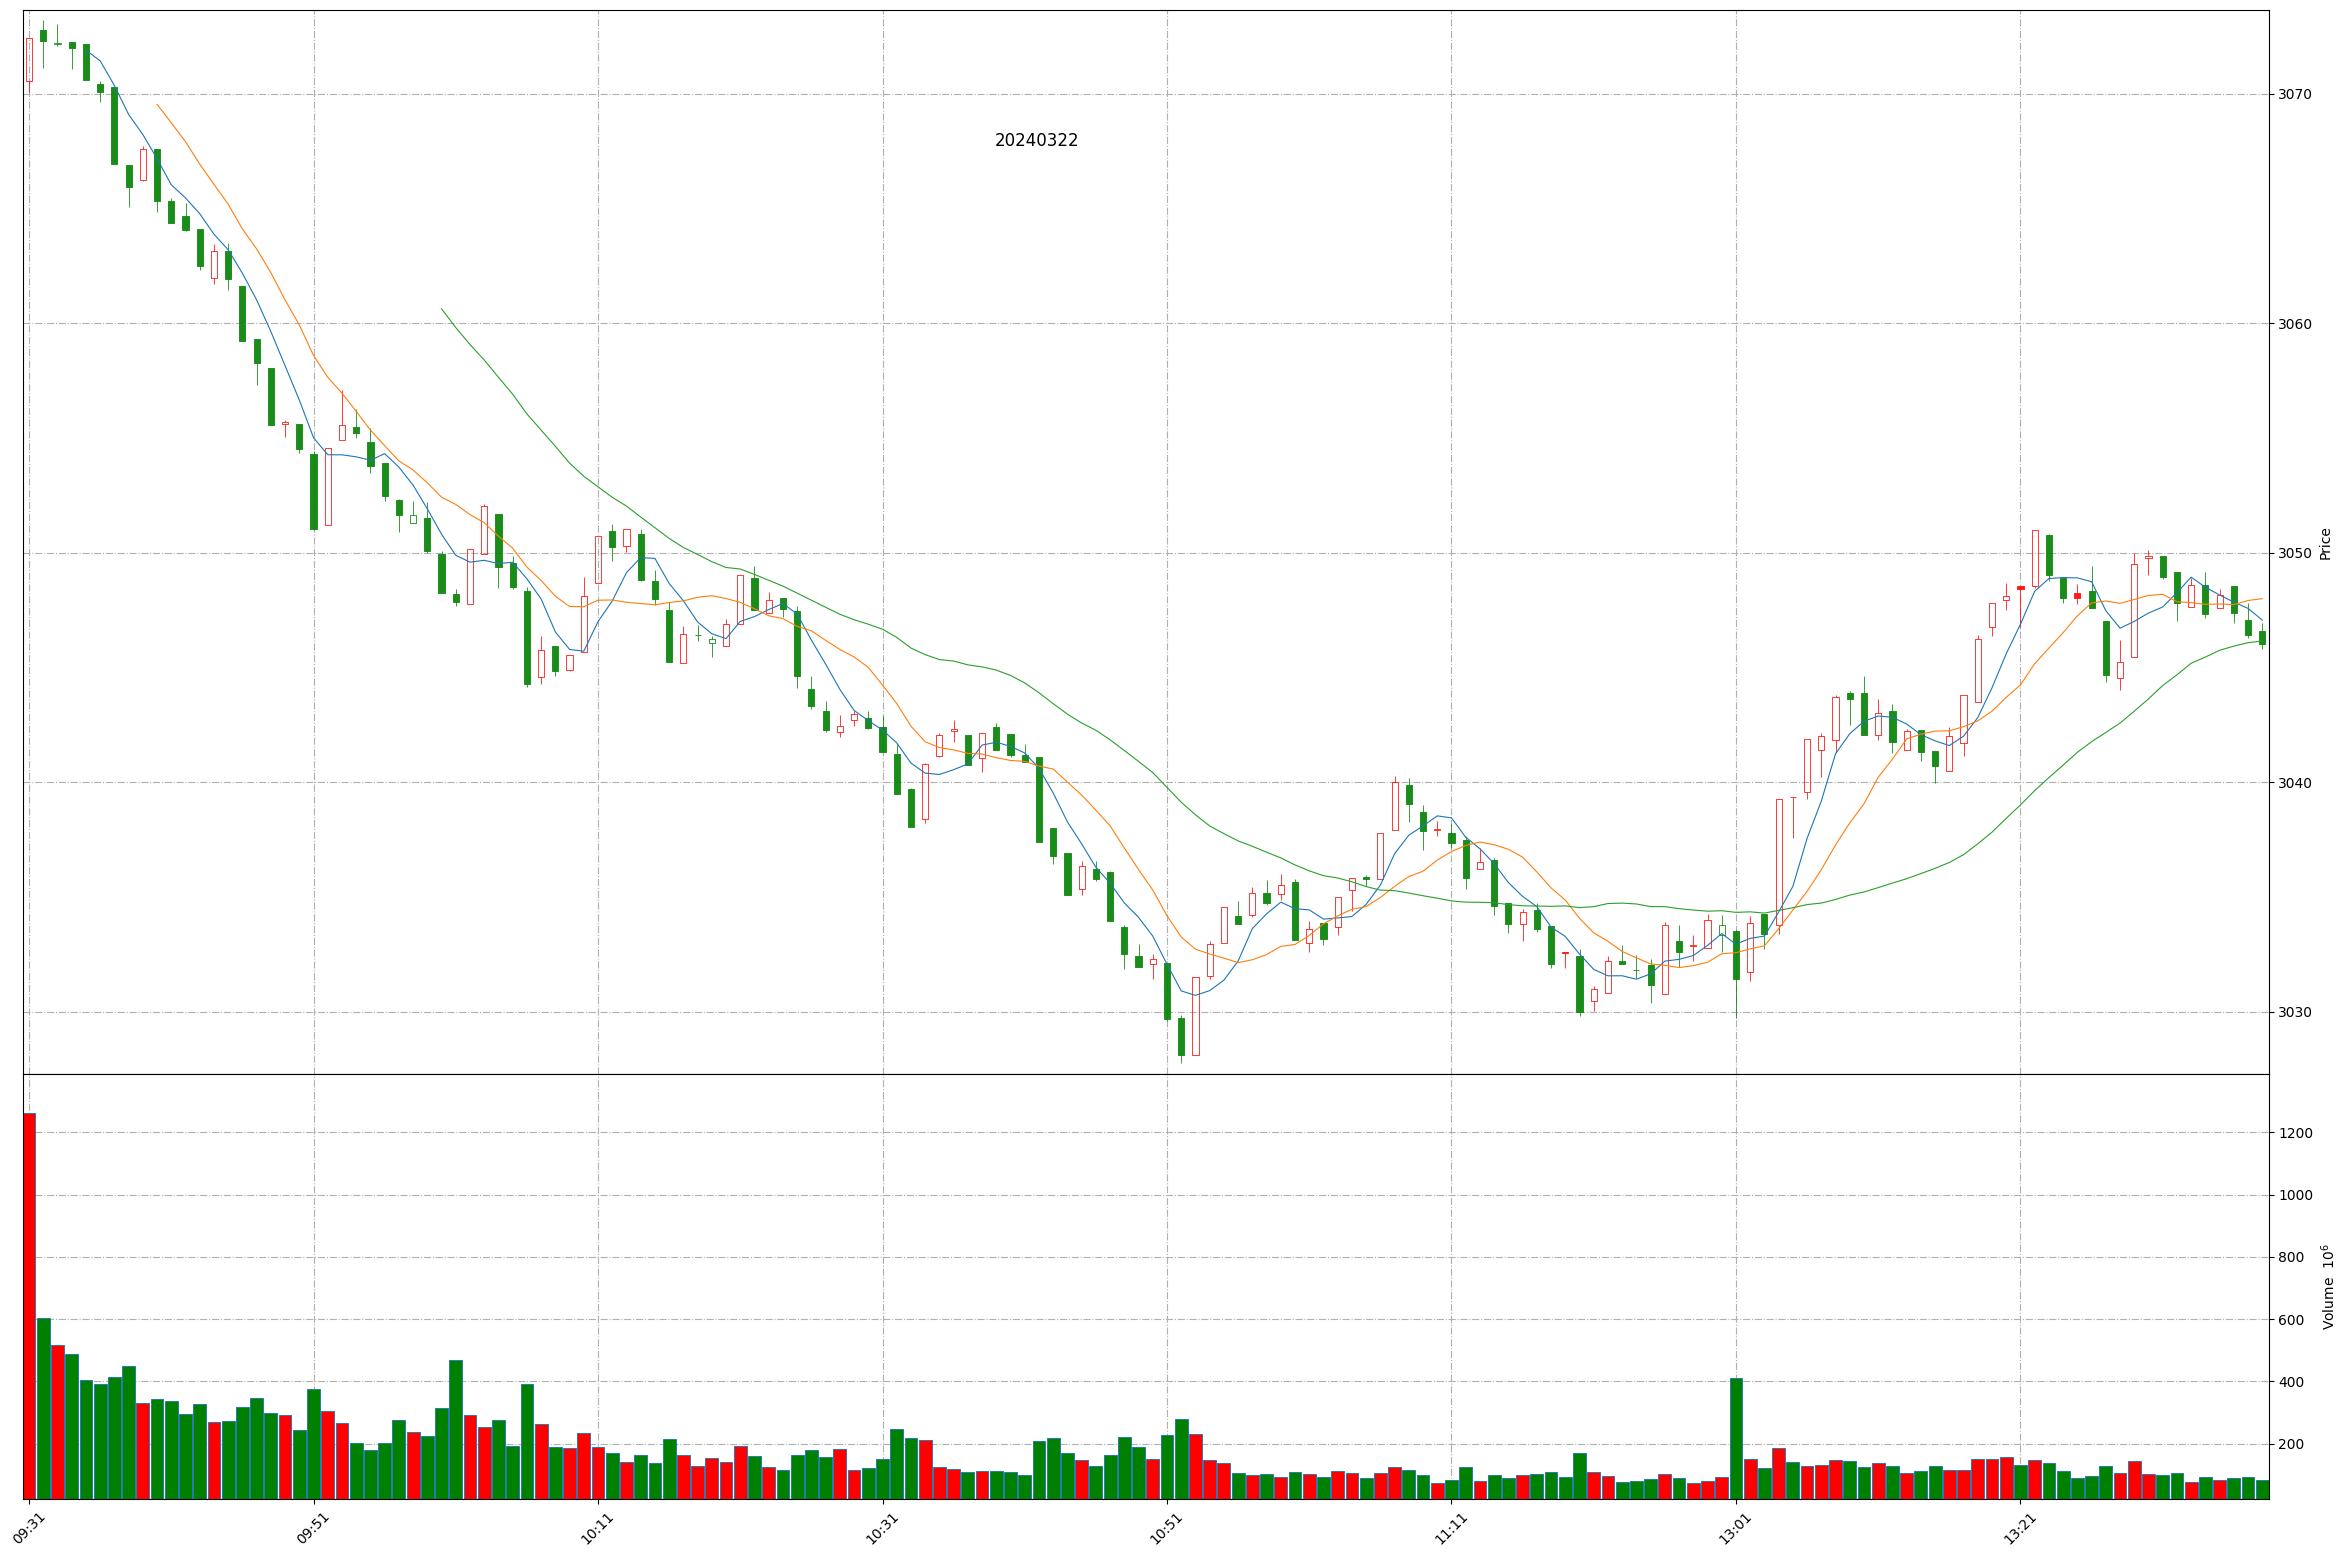
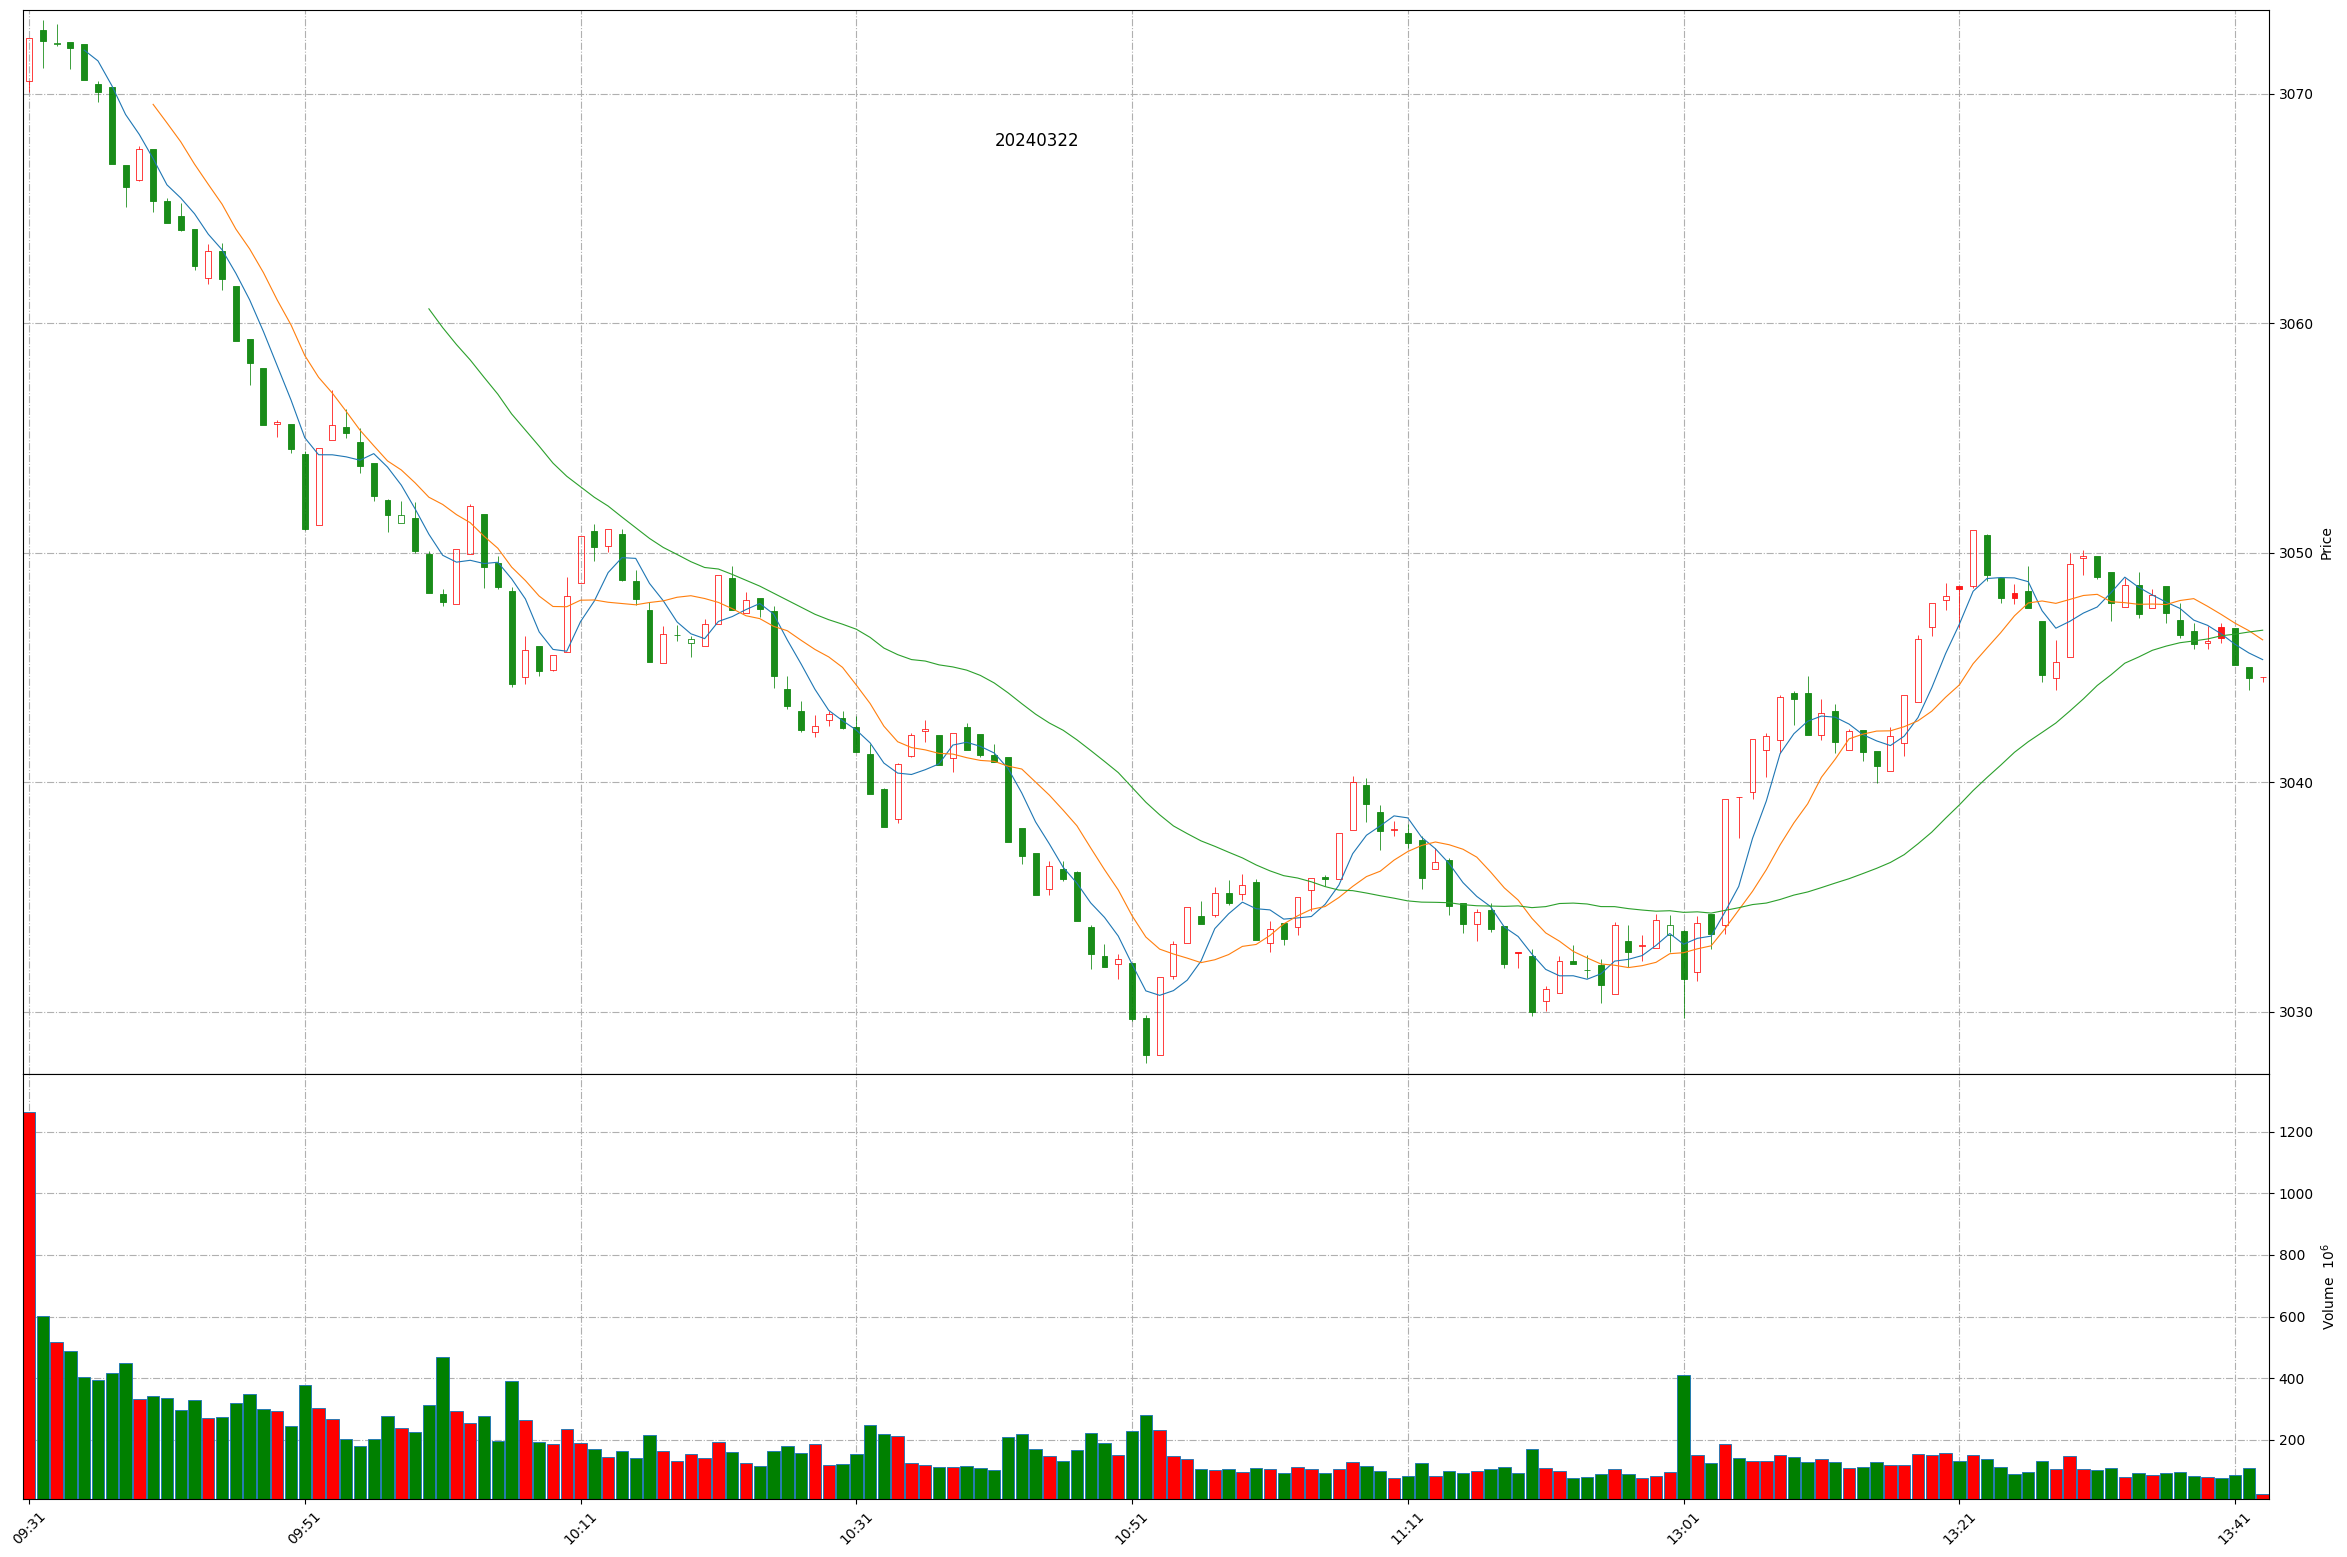
Github action update at 2024-03-22 13:42:36.

diff --git a/README.md b/README.md
@@ -1,11 +1,11 @@
 
 # Daily-A-share-market-quotes 每日 A 股指数（5min 更新）- 20240322
 
-### 上证指数 20240322 13:38
+### 上证指数 20240322 13:42
 ![](./fig/2024/3/20240322-sh000001.png)
 
-### 深证成指 20240322 13:38
+### 深证成指 20240322 13:42
 ![](./fig/2024/3/20240322-sz399001.png)
 
-### 北证50 20240322 13:38
+### 北证50 20240322 13:42
 ![](./fig/2024/3/20240322-bj899050.png)
